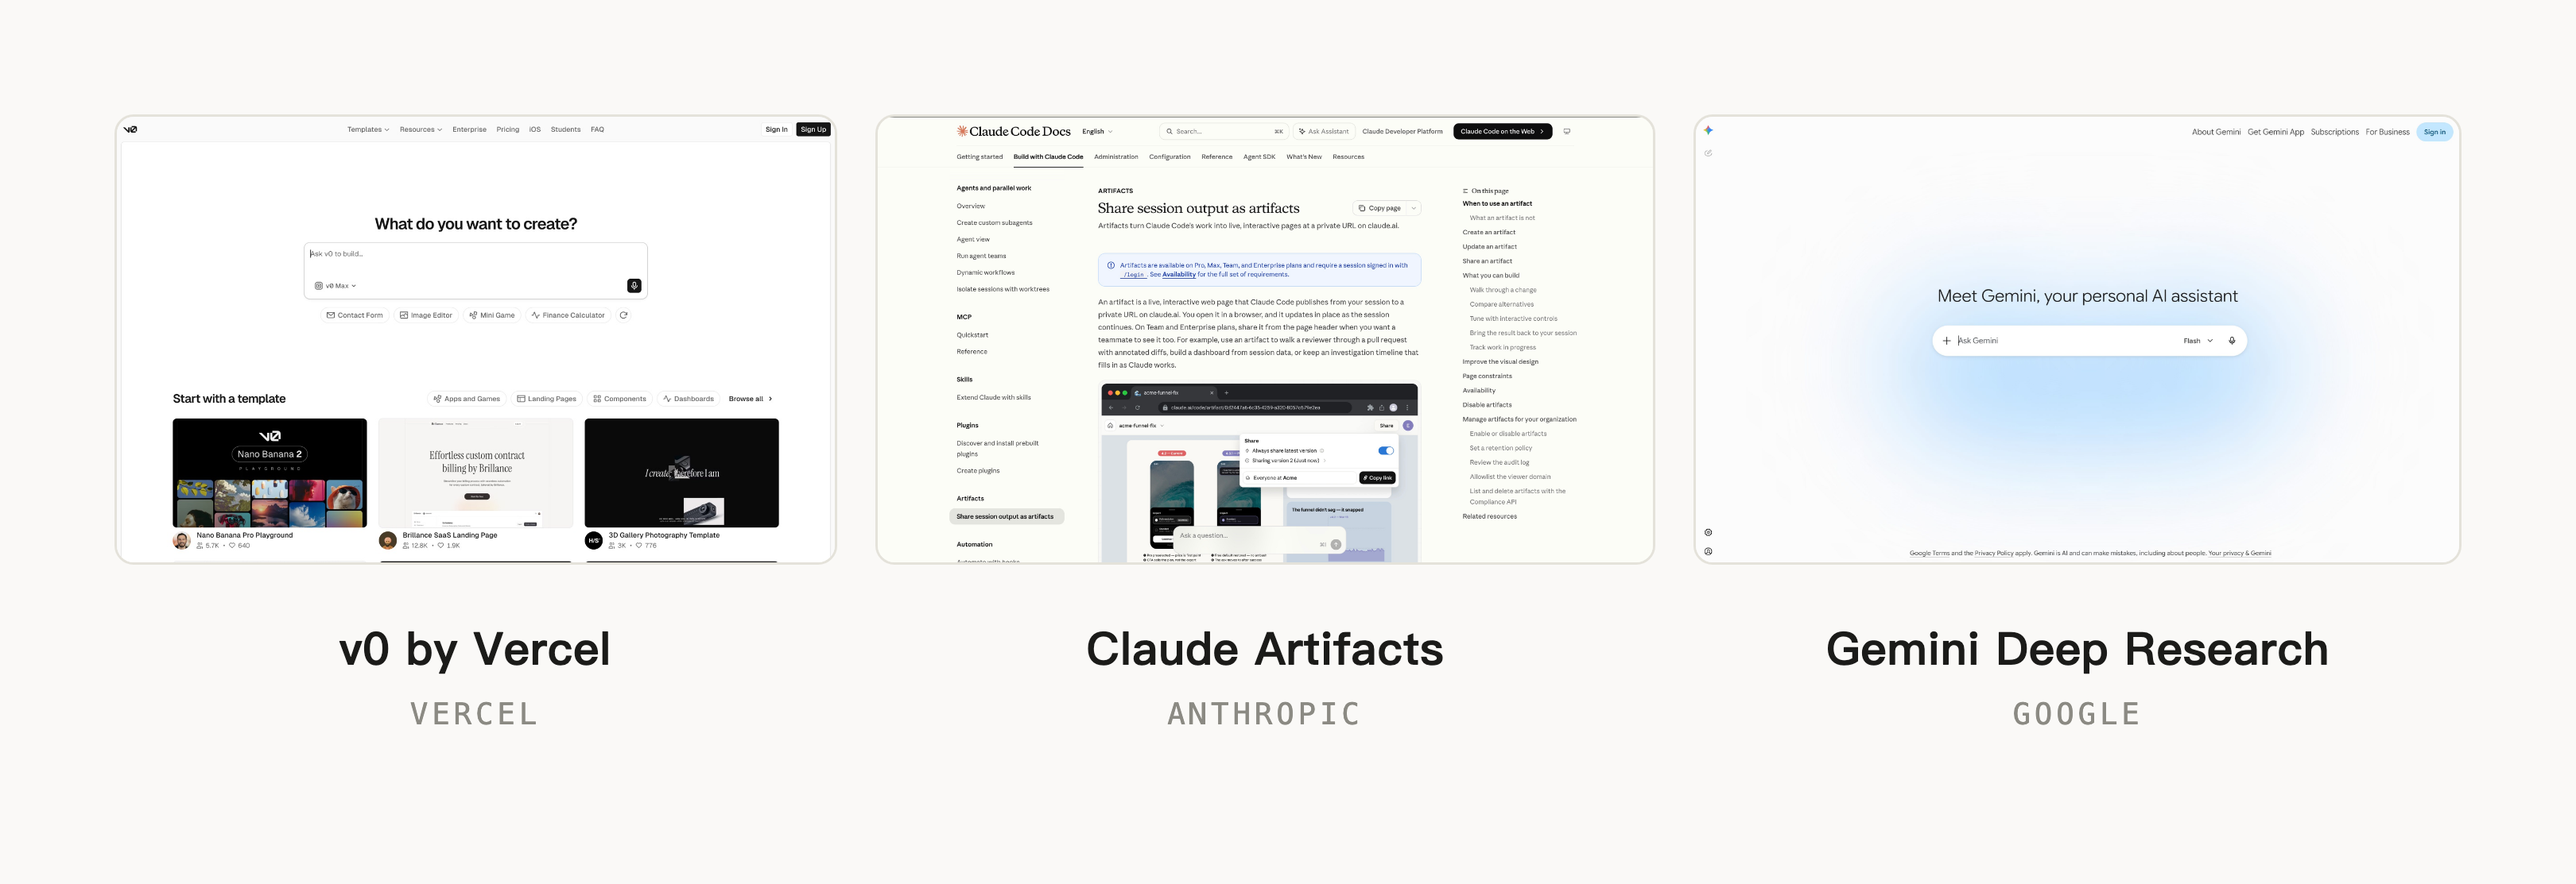
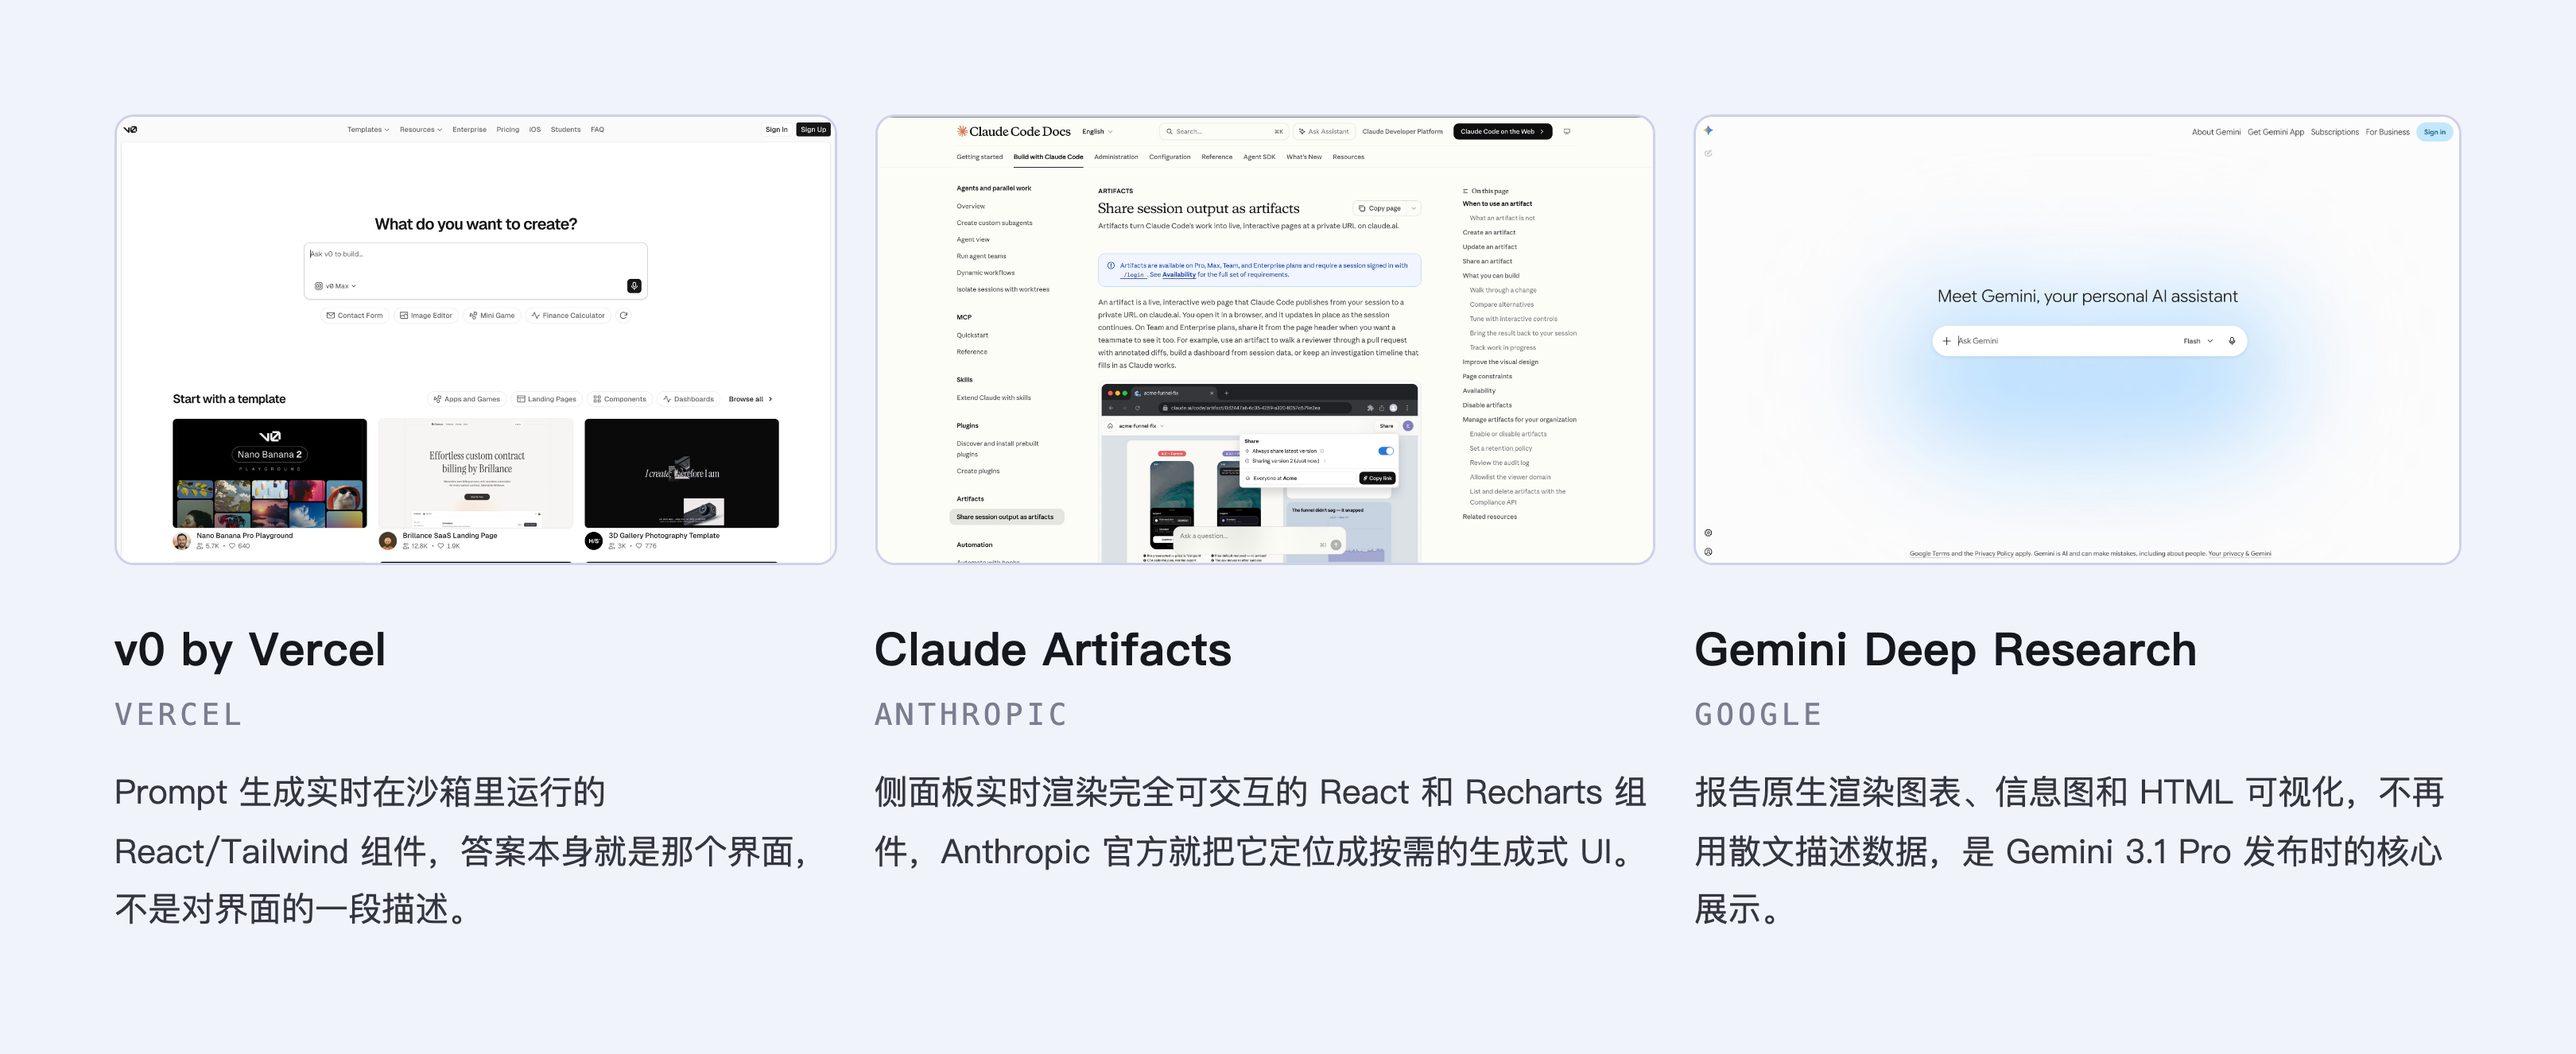
输出展示篇组图三轮定稿：保留简介 + 蓝紫底统一 + 文字左对齐
- 02/04/06 wild 组图找回原卡片中文简介（跳转条仍删）
- 00 前沿三联图与三张 wild 图统一：背景 #f1f3fb 蓝紫底、发丝线 #cdd2e8、标题/副行/简介全部左对齐

diff --git a/docs/writing/article-beyond-chat-output-display.html b/docs/writing/article-beyond-chat-output-display.html
@@ -493,7 +493,7 @@
 <p>比如一个研究分析的请求，骨架先显示五个章节标题和每章的预期长度，每个占位符标注将要填进什么类型的内容。用户在一个字的正文出现之前就可以跳读、展开折叠章节，甚至拒绝这个结构让模型重来。</p>
 <img alt="输出骨架原型：左边线性流式等到结尾才知道形状，右边先出章节骨架再逐个填充" src="assets/beyond-chat-output-display/01-output-skeleton-demo.png"/>
 <p>ChatGPT 的 Deep Research 在执行前先给一张可编辑的研究计划卡，用户可以审阅和修改大纲再让它开始写。Google 的 Gemini Deep Research 在 2026 年 4 月随 3.1 Pro 把这张计划卡做成了主交互，结构在任何内容到达前就被展示和塑形。Claude Artifacts 的做法比较隐式，长结构化文档中 Claude 常先起草标题和章节再填充，但 Anthropic 没有把这个行为做成品牌功能。</p>
-<img alt="输出骨架的已上线案例：ChatGPT Deep Research 和 Gemini Deep Research 的可编辑研究计划卡" src="assets/beyond-chat-output-display/02-output-skeleton-wild.png"/>
+<img alt="输出骨架的已上线案例：ChatGPT Deep Research 和 Gemini Deep Research 的可编辑研究计划卡，Anthropic 没有对应的官方界面素材" src="assets/beyond-chat-output-display/02-output-skeleton-wild.png"/>
 <p>三家做法的分化挺能说明问题：OpenAI 和 Google 把骨架当成了可编辑的契约，Anthropic 把它当成了模型的自发行为，用户对结构的控制权差了一个层级。</p>
 <p>风险在于骨架过度承诺，列出来的章节比模型能写好的多，承诺了五节精细分析最后只填了三节注水内容。输出很短或者完全自由发挥的时候，结构预览本身比内容还重，反而碍事。</p>
 <div class="section-head"><svg height="70" style="display:block;margin:40px 0 0 0;overflow:visible" width="100%" xmlns="http://www.w3.org/2000/svg"><svg height="70" overflow="visible" style="overflow:visible" width="40" x="50%"><g transform="translate(-20 16)"><rect fill="rgba(61, 85, 230, 0.1)" height="40" rx="10" width="40" x="0" y="0"></rect><svg fill="none" height="19.2" overflow="visible" viewBox="0 0 24 24" width="19.2" x="10.4" xmlns="http://www.w3.org/2000/svg" y="10.4"><path d="M2 1.25C2.41421 1.25 2.75 1.58579 2.75 2V18.5C2.75 20.0188 3.98122 21.25 5.5 21.25H22C22.4142 21.25 22.75 21.5858 22.75 22C22.75 22.4142 22.4142 22.75 22 22.75H5.5C3.15279 22.75 1.25 20.8472 1.25 18.5V2C1.25 1.58579 1.58579 1.25 2 1.25Z" fill="#3D55E6"></path> <path d="M7.25001 17L7.25 13C7.25 12.5858 7.58579 12.25 8 12.25C8.41421 12.25 8.75 12.5858 8.75 13L8.75001 17C8.75001 17.4142 8.41422 17.75 8.00001 17.75C7.58579 17.75 7.25001 17.4142 7.25001 17Z" fill="#3D55E6"></path> <path d="M11.25 7L11.25 17C11.25 17.4142 11.5858 17.75 12 17.75C12.4142 17.75 12.75 17.4142 12.75 17L12.75 7C12.75 6.58579 12.4142 6.25 12 6.25C11.5858 6.25 11.25 6.58579 11.25 7Z" fill="#3D55E6"></path> <path d="M15.25 17L15.25 11C15.25 10.5858 15.5858 10.25 16 10.25C16.4142 10.25 16.75 10.5858 16.75 11L16.75 17C16.75 17.4142 16.4142 17.75 16 17.75C15.5858 17.75 15.25 17.4142 15.25 17Z" fill="#3D55E6"></path> <path d="M19.25 17C19.25 17.4142 19.5858 17.75 20 17.75C20.4142 17.75 20.75 17.4142 20.75 17V4C20.75 3.58579 20.4142 3.25 20 3.25C19.5858 3.25 19.25 3.58579 19.25 4V17Z" fill="#3D55E6"></path></svg></g></svg></svg><h2 style="color: #3D55E6;">把答案变成交互组件</h2></div>
